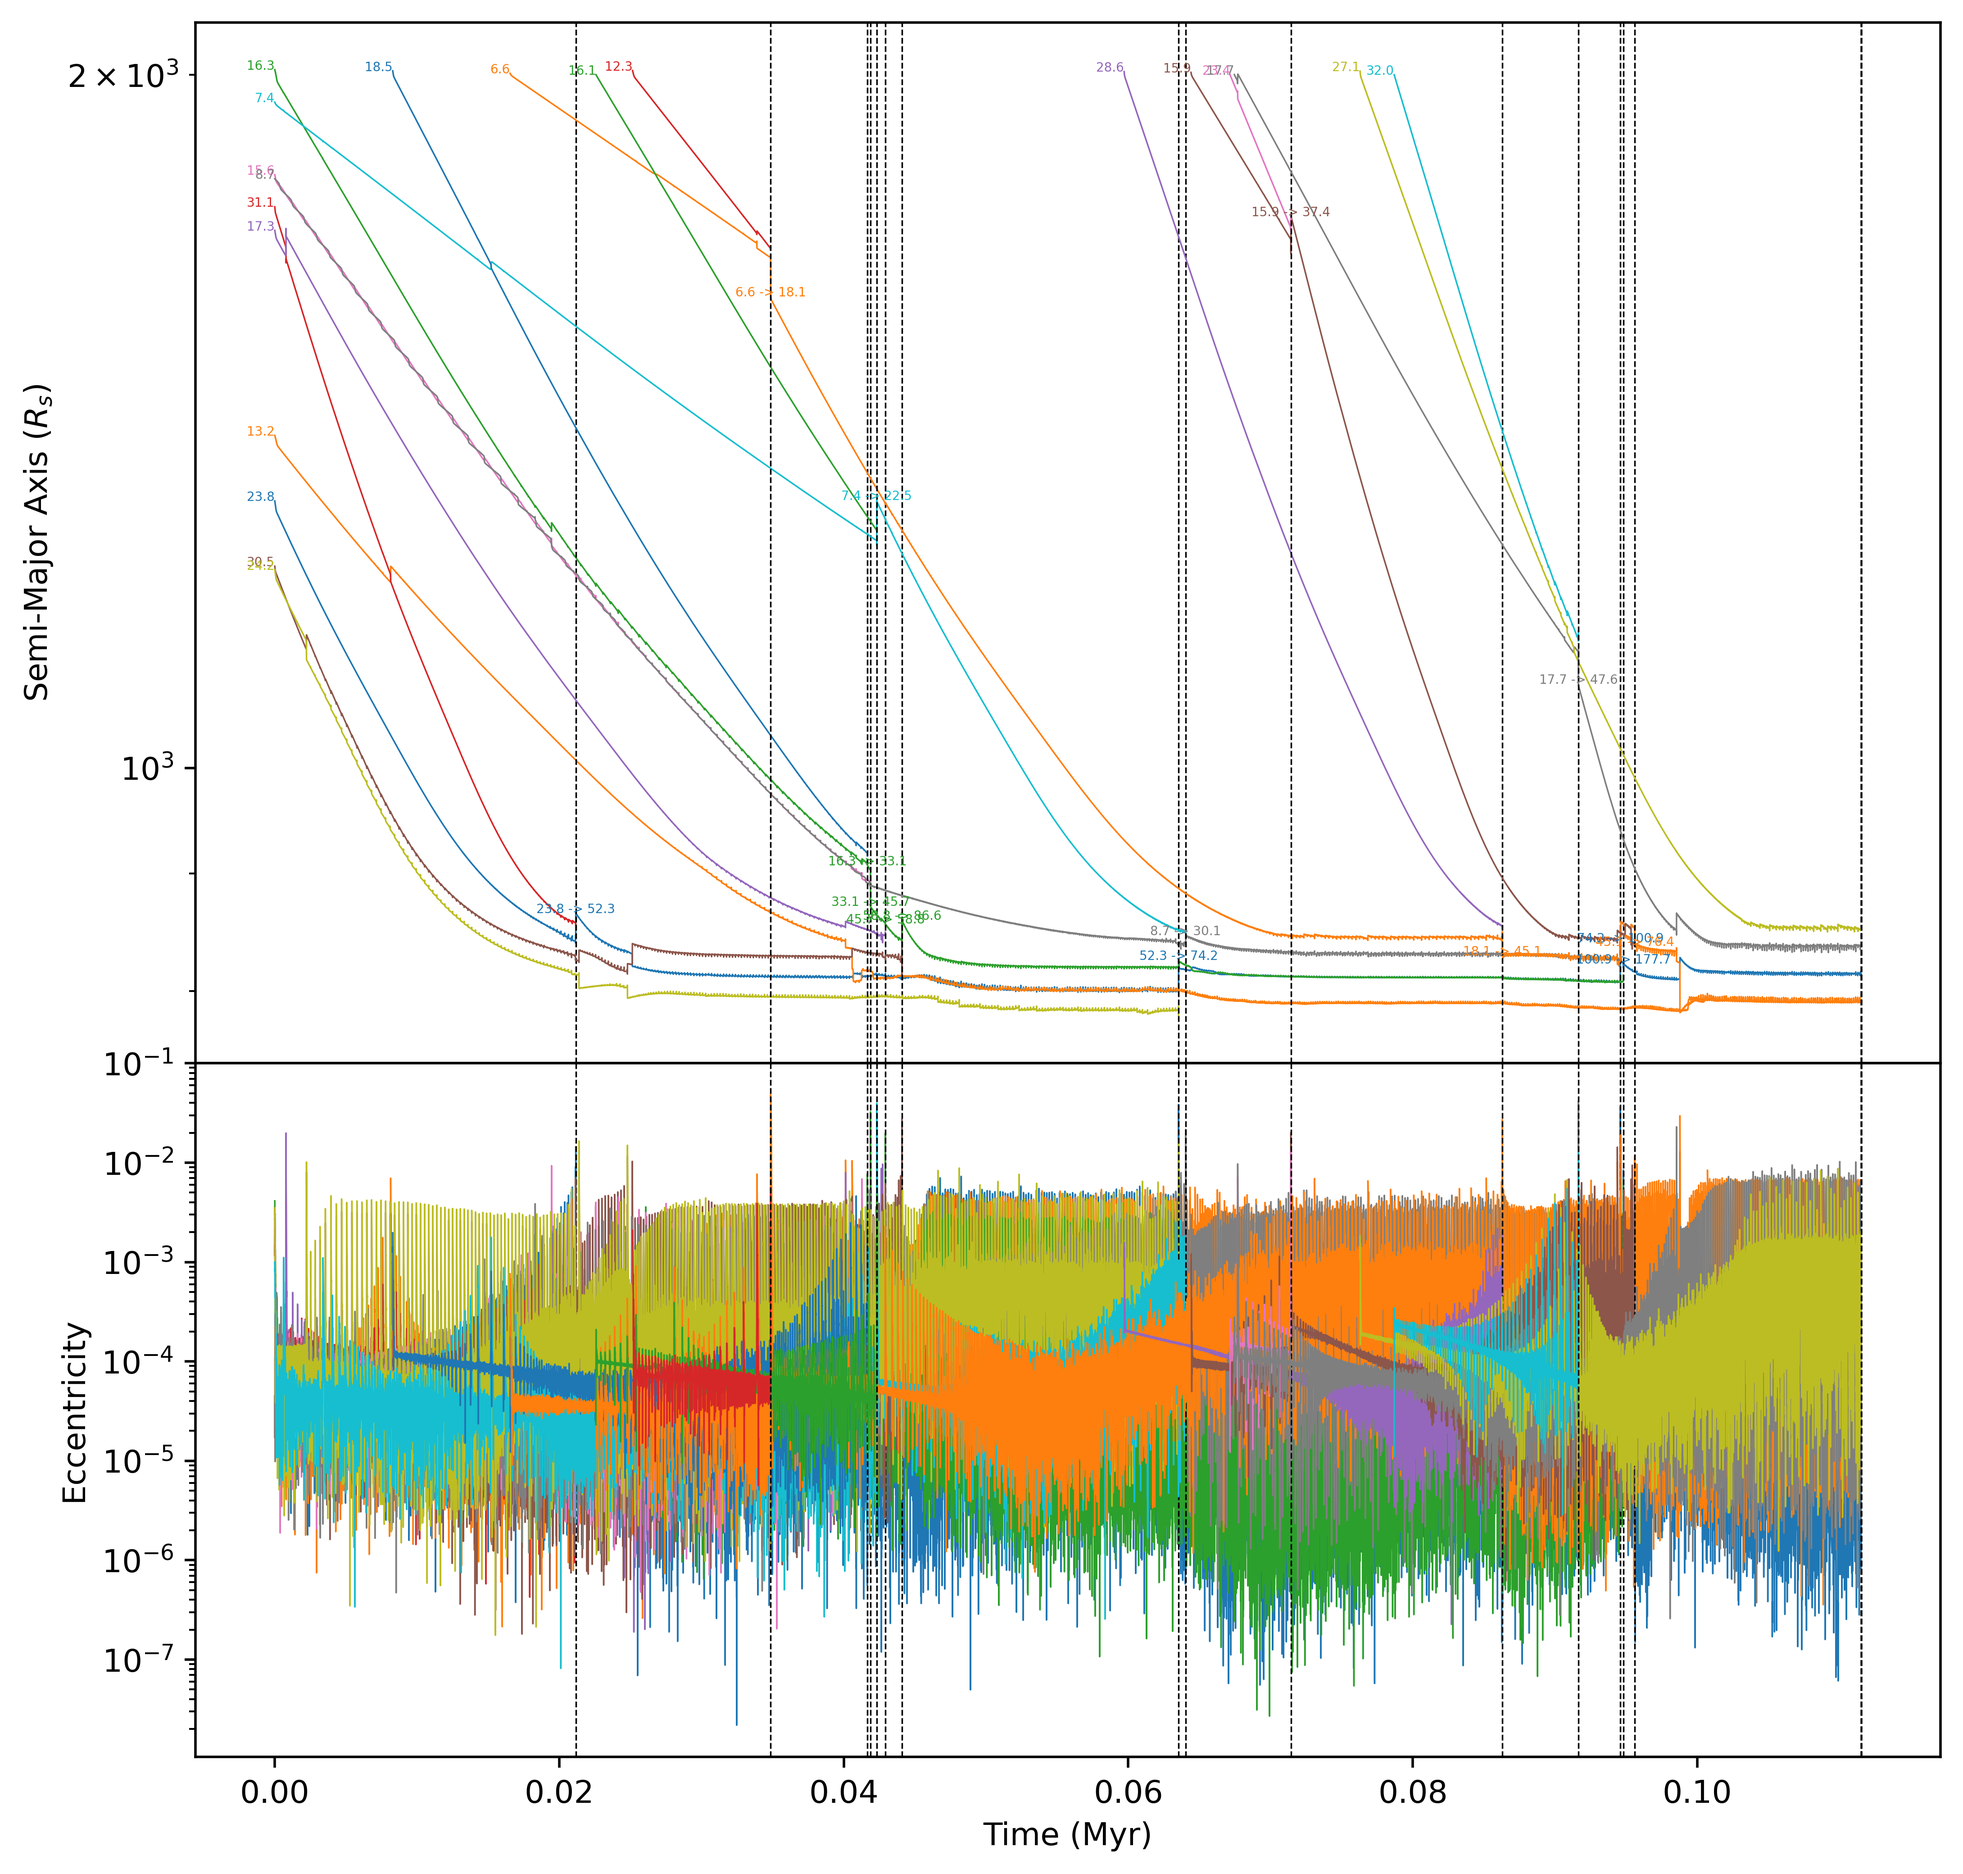
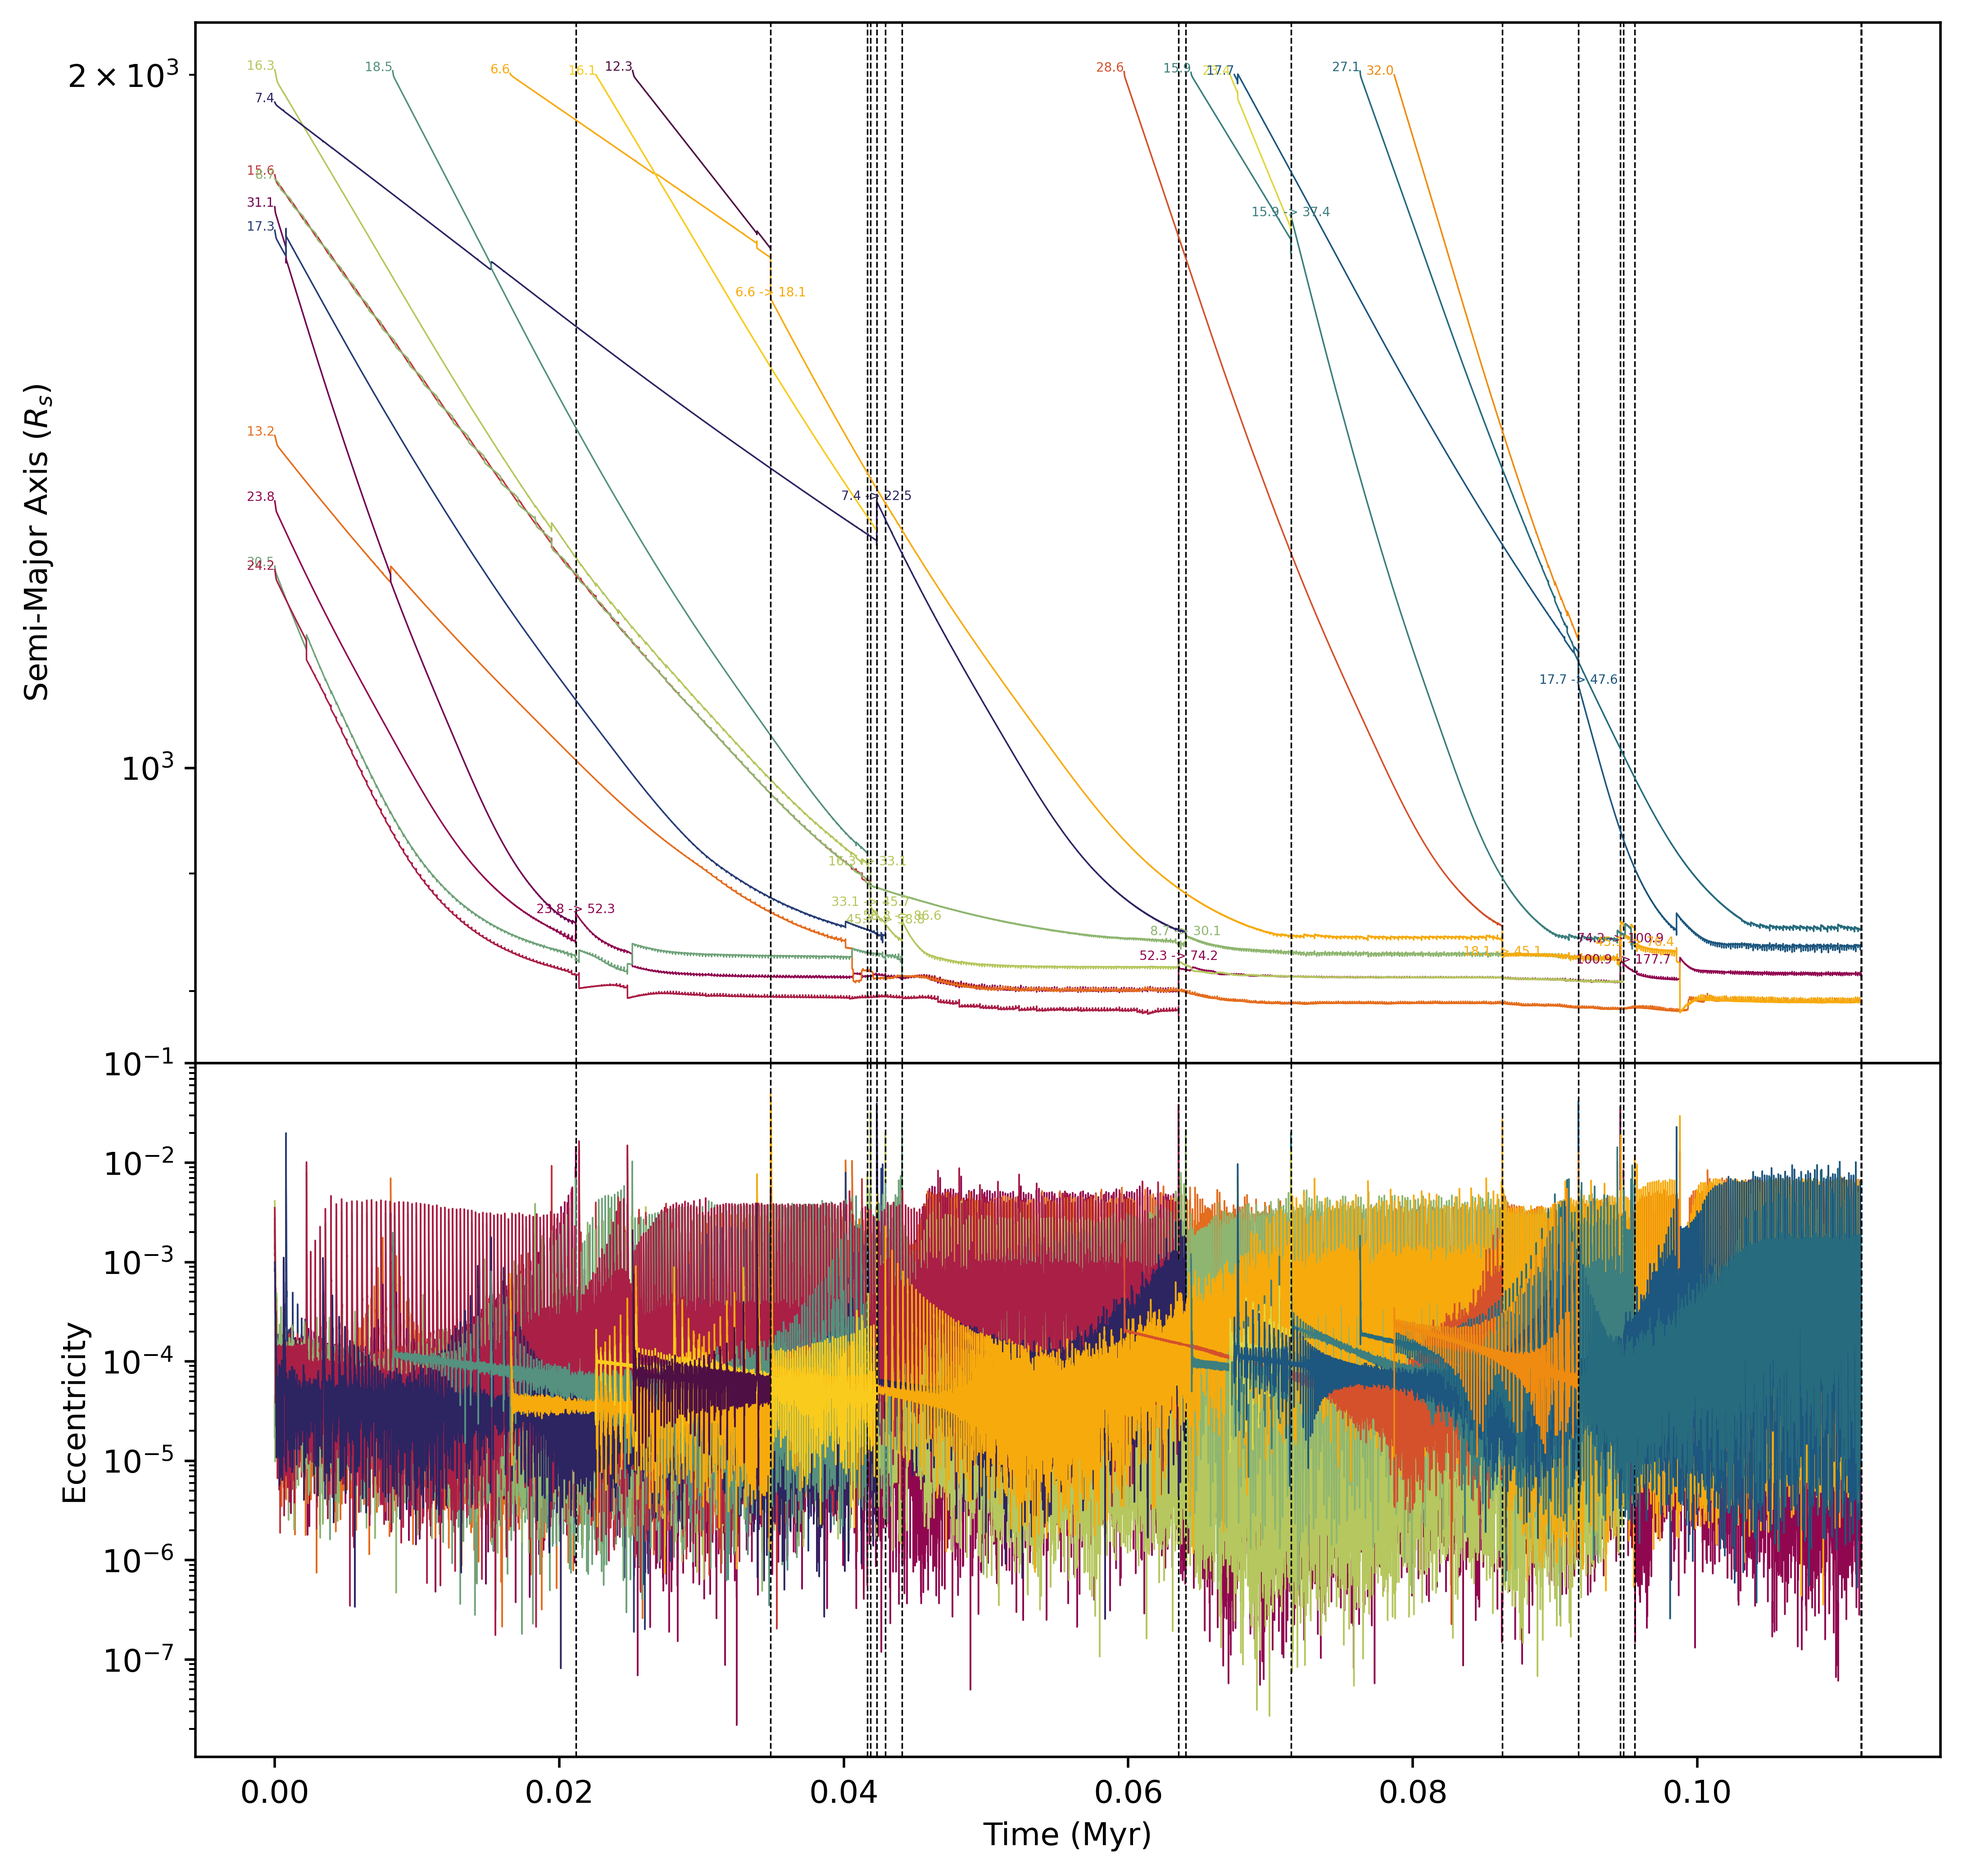
New colourmapping for a-e plot

diff --git a/N-Body_Code/Rebound_Code/plot_sim.py b/N-Body_Code/Rebound_Code/plot_sim.py
@@ -22,10 +22,17 @@ def time_convert(time, M, R):
     Myr_sec = 31536000000000.0
     return time * np.sqrt(radius**3 / (mass * G)) / Myr_sec
 
+# use the below when running from a bash script
 SMBHMass = int(sys.argv[1])
 SMBHMass = 10.**SMBHMass
 f_edd = float(sys.argv[2])
 alpha = float(sys.argv[3])
+
+# use the below when running in an IDE
+# SMBHMass = 8
+# SMBHMass = 10.**SMBHMass
+# f_edd = 0.5
+# alpha = 0.01
 
 folder = f'OUTPUT_M{int(np.log10(SMBHMass))}-f{f_edd:.2f}-a{alpha:.3f}/'
 
@@ -35,6 +42,26 @@ lenscale = Nr_s * r_s
 rawdata = np.genfromtxt(folder+'orbits.txt')
 N = int(rawdata[:, 1].max())
 fig, axes = plt.subplots(figsize=(10, 10), nrows=2, sharex=True, gridspec_kw={'hspace':0, 'height_ratios':[1.5, 1]})
+
+cmap_decision = 'scicomap'
+### now to decide on the colours for the semi-major axis plot
+if cmap_decision == 'stitched':
+    # below stitches two colour maps together 
+    N1 = N // 2; N2 = N - N1
+    colours = np.concatenate([plt.cm.viridis(np.linspace(0, 1, N1)), plt.cm.plasma(np.linspace(0, 1, N2))])
+elif cmap_decision == 'single':
+    # alternatively just use one colourmap
+    colours = plt.cm.turbo(np.linspace(0, 1, N))
+elif cmap_decision == 'scicomap':
+    ## below uses a colourmap from an external package
+    import scicomap as sc   # import SciCoMap
+    # cmap = sc.ScicoCircular(cmap='phase')
+    # cmap = sc.ScicoDiverging(cmap='guppy')
+    # colours = cmap.get_mpl_color_map()(np.linspace(0, 1, N))
+    ## pride but omit 7% either side of the end since it's too dark
+    cmap = sc.ScicoDiverging(cmap='pride')
+    colours = cmap.get_mpl_color_map()(np.linspace(0.07, 0.93, N))
+np.random.shuffle(colours)
 
 # rawdata[:, 5] *= SMBHMass
 # norm = plt.Normalize(rawdata[:, 5].min(), rawdata[:, 5].max())
@@ -47,19 +74,13 @@ for i in range(1, N+1):
     eccentricities = particle_data[:, 3]
     inclinations = particle_data[:, 4]  # convert from rad to degrees
     real_times = time_convert(particle_data[:, 0], SMBHMass, lenscale)
-    line, = axes[0].plot(real_times, semi_majors, lw=0.5)
-    axes[1].plot(real_times, eccentricities, lw=0.5)
-    ax2.plot(real_times, inclinations, lw=0.5)
+    line, = axes[0].plot(real_times, semi_majors, lw=0.5, color=colours[i-1])
+    axes[1].plot(real_times, eccentricities, lw=0.5, color=colours[i-1])
+    ax2.plot(real_times, inclinations, lw=0.5, color=colours[i-1])
     for j in [0, 1]:
         axes[j].axvline(real_times[-1], ls='--', lw=0.5, c='k')
     ax2.axvline(real_times[-1], ls='--', lw=0.5, c='k')
         
-    # points = np.array([real_times, semi_majors * Nr_s]).T.reshape(-1, 1, 2)
-    # segments = np.concatenate([points[:-1], points[1:]], axis=1)
-    # lc = LineCollection(segments, cmap=cmap, norm=norm)
-    # lc.set_array(particle_data[:, 5])
-    # lc.set_linewidth(1)
-    # line = axes[0].add_collection(lc)
     
     ### now to overlay the mass changes
     masses = particle_data[:, 5] * SMBHMass
@@ -81,46 +102,46 @@ ax2.set(xlabel="Time (Myr)", ylabel='Inclination (degrees)')
 fig2.savefig(folder+'NBody_inclination_Plot.png', dpi=500, bbox_inches='tight')
 
 
-### now to plot the binary mass and binary mass ratio plot
-merger_data = np.genfromtxt(folder+'mergers.txt')
-mergers = merger_data.shape[0]
+# ### now to plot the binary mass and binary mass ratio plot
+# merger_data = np.genfromtxt(folder+'mergers.txt')
+# mergers = merger_data.shape[0]
 
-binary_masses = np.array([merger_data[i, 1] + merger_data[i, 2] for i in range(mergers)])
-binary_m_ratio = np.array([min(merger_data[i, 1], merger_data[i, 2]) / max(merger_data[i, 1], merger_data[i, 2]) for i in range(mergers)])
-effective_spins = merger_data[:, 4]
-remnant_spins = merger_data[:, 5]
+# binary_masses = np.array([merger_data[i, 1] + merger_data[i, 2] for i in range(mergers)])
+# binary_m_ratio = np.array([min(merger_data[i, 1], merger_data[i, 2]) / max(merger_data[i, 1], merger_data[i, 2]) for i in range(mergers)])
+# effective_spins = merger_data[:, 4]
+# remnant_spins = merger_data[:, 5]
 
-fig, ax = plt.subplots()
-n_bins = 10
-xbins = np.logspace(np.log10(min(binary_masses)), np.log10(max(binary_masses)), n_bins)
-ybins = np.logspace(np.log10(min(binary_m_ratio)), np.log10(max(binary_m_ratio)), n_bins)
-_, _, _, cbar = ax.hist2d(binary_masses, binary_m_ratio, cmin=1, bins=[xbins, ybins])
-ax.set(xscale='log', yscale='log', xlabel='Binary Mass, $m_1 + m_2$ ($M_\odot$)', ylabel='Mass Ratio $q$ ($m_1 / m_2$)')
-fig.colorbar(cbar, label='Counts')
-fig.savefig(folder+'Q_vs_BinaryMass.png', dpi=400, bbox_inches='tight')
-
-
-fig, ax = plt.subplots()
-ax.hist(remnant_spins, bins=20, ec='k')
-ax.set(xlabel="Dimensionless Spin Parameter", ylabel='Frequency')
-fig.savefig(folder+'BH_Spins.png', dpi=400, bbox_inches='tight')
+# fig, ax = plt.subplots()
+# n_bins = 10
+# xbins = np.logspace(np.log10(min(binary_masses)), np.log10(max(binary_masses)), n_bins)
+# ybins = np.logspace(np.log10(min(binary_m_ratio)), np.log10(max(binary_m_ratio)), n_bins)
+# _, _, _, cbar = ax.hist2d(binary_masses, binary_m_ratio, cmin=1, bins=[xbins, ybins])
+# ax.set(xscale='log', yscale='log', xlabel='Binary Mass, $m_1 + m_2$ ($M_\odot$)', ylabel='Mass Ratio $q$ ($m_1 / m_2$)')
+# fig.colorbar(cbar, label='Counts')
+# fig.savefig(folder+'Q_vs_BinaryMass.png', dpi=400, bbox_inches='tight')
 
 
-def callister(x, y):
-    # q-vs-chi_eff probability density function from callister (2021) - Who Ordered That? Unequal-mass Binary Black Hole Mergers Have Larger Effective Spins
-    return y**1.08 * np.exp(-(x - (0.19 - 0.46*(y - 0.5)))**2 / (2 * (10**(-1.06 - 0.83*(y - 0.5)))**2))
-fig, ax = plt.subplots()
-x = np.linspace(-1, 1, 100)
-y = np.linspace(0, 1, 100)
-z = np.ndarray((len(x), len(y)))
-for i in range(len(x)):
-    for j in range(len(y)):
-        z[i, j] = callister(x[i], y[j])
-ax.contourf(x, y, z.T, cmap='binary', alpha=0.3, levels=[0.01, 0.05, 0.16, 0.5, 0.84, 1], antialiased=True)
-cbar = ax.scatter(effective_spins, binary_m_ratio, c=merger_data[:, 8])
-ax.set(xlabel='$\chi_{eff}$', ylabel='Mass Ratio $q$ ($m_1 / m_2$)', xlim=[-1, 1], ylim=[0, 1])
-# ax.legend()
-fig.colorbar(cbar, label='BH Generation')
-fig.savefig(folder+'BH_Effective_Spins.png', dpi=400, bbox_inches='tight')
+# fig, ax = plt.subplots()
+# ax.hist(remnant_spins, bins=20, ec='k')
+# ax.set(xlabel="Dimensionless Spin Parameter", ylabel='Frequency')
+# fig.savefig(folder+'BH_Spins.png', dpi=400, bbox_inches='tight')
 
-plt.close('all')
+
+# def callister(x, y):
+#     # q-vs-chi_eff probability density function from callister (2021) - Who Ordered That? Unequal-mass Binary Black Hole Mergers Have Larger Effective Spins
+#     return y**1.08 * np.exp(-(x - (0.19 - 0.46*(y - 0.5)))**2 / (2 * (10**(-1.06 - 0.83*(y - 0.5)))**2))
+# fig, ax = plt.subplots()
+# x = np.linspace(-1, 1, 100)
+# y = np.linspace(0, 1, 100)
+# z = np.ndarray((len(x), len(y)))
+# for i in range(len(x)):
+#     for j in range(len(y)):
+#         z[i, j] = callister(x[i], y[j])
+# ax.contourf(x, y, z.T, cmap='binary', alpha=0.3, levels=[0.01, 0.05, 0.16, 0.5, 0.84, 1], antialiased=True)
+# cbar = ax.scatter(effective_spins, binary_m_ratio, c=merger_data[:, 8])
+# ax.set(xlabel='$\chi_{eff}$', ylabel='Mass Ratio $q$ ($m_1 / m_2$)', xlim=[-1, 1], ylim=[0, 1])
+# # ax.legend()
+# fig.colorbar(cbar, label='BH Generation')
+# fig.savefig(folder+'BH_Effective_Spins.png', dpi=400, bbox_inches='tight')
+
+# plt.close('all')
